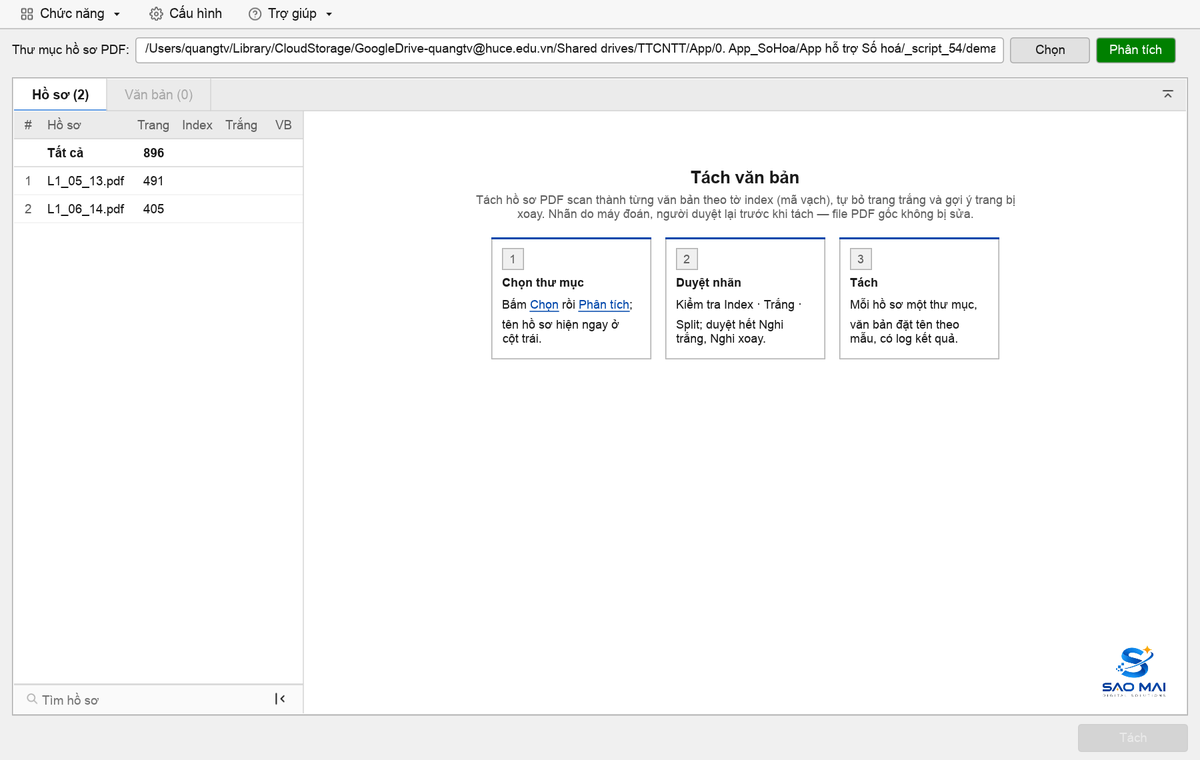
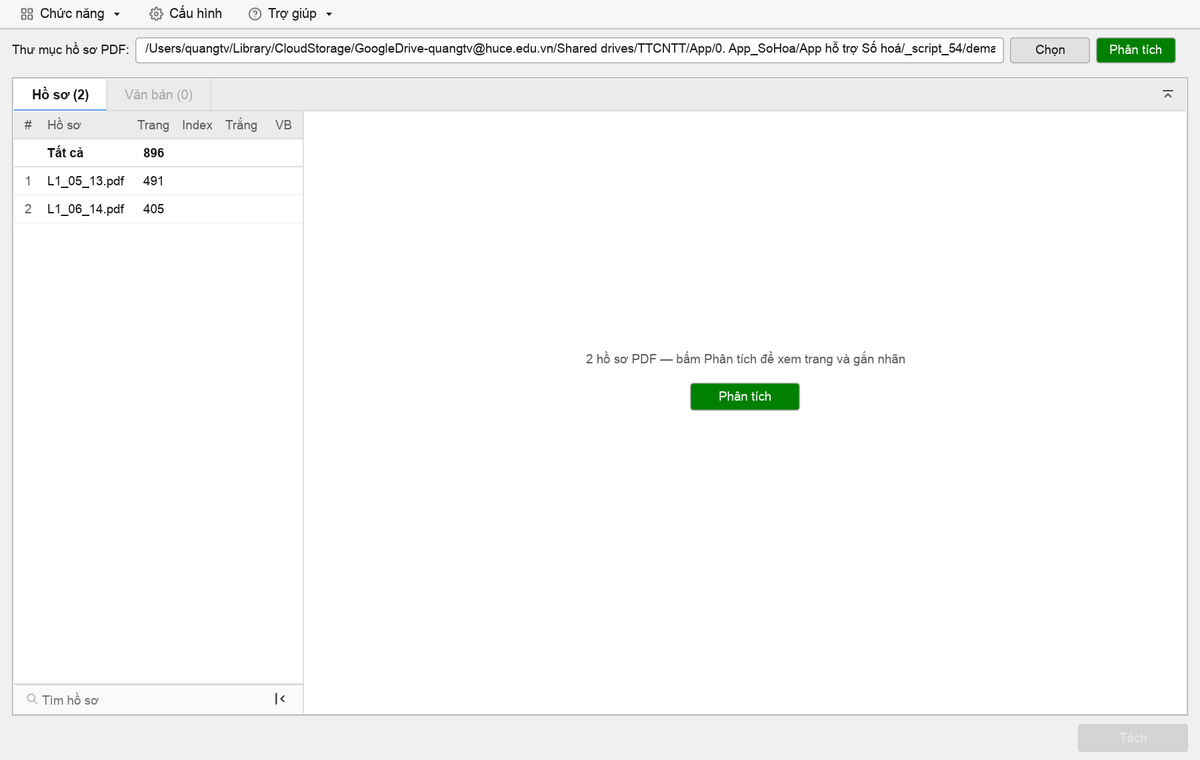
fix(tach): hiện ngay danh sách PDF sau khi chọn thư mục trên Windows, bỏ giới thiệu khi đã chọn; file cấu hình ẩn .dema4_saomai.cfg

Changed region(s): [[0.4008, 0.2118, 0.8325, 0.5447], [0.925, 0.8474, 0.9867, 0.9079], [0.8017, 0.4539, 0.8325, 0.4842]]

diff --git a/dema4_rs/src/cau_hinh.rs b/dema4_rs/src/cau_hinh.rs
@@ -1,4 +1,4 @@
-//! Cấu hình người dùng `sm-dema4.cfg` (dạng `khoá=giá trị`, mỗi dòng 1 khoá): hệ số quy A4, ranh giới khổ,
+//! Cấu hình người dùng `.dema4_saomai.cfg` (file ẩn; dạng `khoá=giá trị`, mỗi dòng 1 khoá): hệ số quy A4, ranh giới khổ,
 //! tuỳ chọn Tách PDF và trạng thái giao diện.
 //!
 //! Đặt cạnh file chạy; thư mục đó không ghi được → thư mục người dùng (`%APPDATA%\sm-dema4\`,
@@ -8,7 +8,10 @@ use crate::dem_pdf::HE_SO_MAC_DINH;
 use crate::tach_vb::tach::MAU_TEN_MAC_DINH;
 use std::path::{Path, PathBuf};
 
-pub const TEN_FILE: &str = "sm-dema4.cfg";
+/// Cùng tên ứng dụng, ẩn: dấu chấm đầu (macOS / Linux) + thuộc tính Hidden khi ghi (Windows).
+pub const TEN_FILE: &str = ".dema4_saomai.cfg";
+/// Tên cũ (≤ v1.0.0 bản đầu): vẫn đọc nếu chưa có file mới; lần ghi sau chuyển sang tên mới và xoá file cũ.
+const TEN_FILE_CU: &str = "sm-dema4.cfg";
 /// Ranh giới khổ mặc định (mm, cạnh dài): điểm giữa 2 khổ liền kề A0|A1 … A6|A7.
 pub const RANH_GIOI_MAC_DINH: [f64; 7] = [1015.0, 717.5, 507.0, 358.5, 253.5, 179.0, 126.5];
 /// Cạnh dài chuẩn (mm) A0 … A7.
@@ -301,16 +304,19 @@ impl CauHinh {
     }
 }
 
-/// Chỗ đặt file theo thứ tự ưu tiên: cạnh file chạy, rồi thư mục người dùng.
+/// Thư mục đặt file theo thứ tự ưu tiên: cạnh file chạy, rồi thư mục người dùng.
+fn thu_muc_dat_file() -> Vec<PathBuf> {
+    std::env::current_exe().ok().and_then(|e| e.parent().map(Path::to_path_buf)).into_iter().chain(thu_muc_nguoi_dung()).collect()
+}
+
+/// Chỗ đặt file (tên mới) theo thứ tự ưu tiên.
 pub fn cho_dat_file() -> Vec<PathBuf> {
-    let mut ds = Vec::new();
-    if let Some(p) = std::env::current_exe().ok().and_then(|e| e.parent().map(|d| d.join(TEN_FILE))) {
-        ds.push(p);
-    }
-    if let Some(d) = thu_muc_nguoi_dung() {
-        ds.push(d.join(TEN_FILE));
-    }
-    ds
+    thu_muc_dat_file().into_iter().map(|d| d.join(TEN_FILE)).collect()
+}
+
+/// Chỗ đọc: tên mới trước, rồi tên cũ.
+fn cho_doc(thu_muc: &[PathBuf]) -> Vec<PathBuf> {
+    thu_muc.iter().map(|d| d.join(TEN_FILE)).chain(thu_muc.iter().map(|d| d.join(TEN_FILE_CU))).collect()
 }
 
 pub(crate) fn thu_muc_nguoi_dung() -> Option<PathBuf> {
@@ -330,7 +336,7 @@ pub fn doc_tu(cho: &[PathBuf]) -> CauHinh {
 }
 
 pub fn doc() -> CauHinh {
-    doc_tu(&cho_dat_file())
+    doc_tu(&cho_doc(&thu_muc_dat_file()))
 }
 
 fn ghi_file(p: &Path, noi_dung: &str) -> std::io::Result<()> {
@@ -339,10 +345,30 @@ fn ghi_file(p: &Path, noi_dung: &str) -> std::io::Result<()> {
     }
     let tam = p.with_extension("cfg.tmp");
     std::fs::write(&tam, noi_dung)?;
+    an_hien(p, false); // Windows không cho thay file đang ẩn → bỏ ẩn bản cũ trước khi đổi tên đè
     std::fs::rename(&tam, p).inspect_err(|_| {
         let _ = std::fs::remove_file(&tam);
-    })
+    })?;
+    an_hien(p, true);
+    Ok(())
 }
+
+/// Bật / tắt thuộc tính Hidden (chỉ Windows; macOS / Linux ẩn nhờ dấu chấm đầu tên). Lỗi bỏ qua.
+#[cfg(windows)]
+fn an_hien(p: &Path, an: bool) {
+    use std::os::windows::ffi::OsStrExt;
+    use windows_sys::Win32::Storage::FileSystem::{GetFileAttributesW, SetFileAttributesW, FILE_ATTRIBUTE_HIDDEN, INVALID_FILE_ATTRIBUTES};
+    let ten: Vec<u16> = p.as_os_str().encode_wide().chain(std::iter::once(0)).collect();
+    unsafe {
+        let tt = GetFileAttributesW(ten.as_ptr());
+        if tt != INVALID_FILE_ATTRIBUTES {
+            SetFileAttributesW(ten.as_ptr(), if an { tt | FILE_ATTRIBUTE_HIDDEN } else { tt & !FILE_ATTRIBUTE_HIDDEN });
+        }
+    }
+}
+
+#[cfg(not(windows))]
+fn an_hien(_p: &Path, _an: bool) {}
 
 /// Ghi vào chỗ đầu tiên ghi được; trả đường dẫn đã ghi. Ghi được chỗ sau thì xoá bản cũ ở chỗ trước
 /// (nếu xoá được) để lần đọc sau không lấy nhầm bản cũ.
@@ -364,7 +390,16 @@ pub fn ghi_vao(c: &CauHinh, cho: &[PathBuf]) -> std::io::Result<PathBuf> {
 }
 
 pub fn ghi(c: &CauHinh) -> std::io::Result<PathBuf> {
-    ghi_vao(c, &cho_dat_file())
+    ghi_trong(c, &thu_muc_dat_file())
+}
+
+/// Ghi tên mới; ghi được thì xoá file tên cũ ở mọi chỗ (lần đọc sau không lấy nhầm bản cũ).
+fn ghi_trong(c: &CauHinh, thu_muc: &[PathBuf]) -> std::io::Result<PathBuf> {
+    let p = ghi_vao(c, &thu_muc.iter().map(|d| d.join(TEN_FILE)).collect::<Vec<_>>())?;
+    for d in thu_muc {
+        let _ = std::fs::remove_file(d.join(TEN_FILE_CU));
+    }
+    Ok(p)
 }
 
 #[cfg(test)]
@@ -468,6 +503,25 @@ mod tests {
         ghi_vao(&CauHinh::default(), &cho2).unwrap();
         assert_eq!(doc_tu(&cho2), CauHinh::default());
         assert!(!d.join("canh_exe.cfg.tmp").exists());
+        let _ = std::fs::remove_dir_all(&d);
+    }
+
+    #[test]
+    fn file_an_ten_ung_dung_va_chuyen_tu_ten_cu() {
+        assert!(TEN_FILE.starts_with('.') && TEN_FILE.contains("dema4_saomai"), "ẩn trên macOS / Linux, cùng tên ứng dụng");
+        let d = tam("ten_moi");
+        let (exe, nd) = (d.join("canh_exe"), d.join("nguoi_dung"));
+        std::fs::create_dir_all(&exe).unwrap();
+        let cu = CauHinh { rong_cot_trai: 321.0, ..Default::default() };
+        std::fs::write(exe.join(TEN_FILE_CU), cu.noi_dung()).unwrap();
+        let thu_muc = vec![exe.clone(), nd];
+        assert_eq!(doc_tu(&cho_doc(&thu_muc)), cu, "chưa có file mới → đọc file tên cũ");
+        let moi = CauHinh { rong_cot_trai: 222.0, ..cu.clone() };
+        assert_eq!(ghi_trong(&moi, &thu_muc).unwrap(), exe.join(TEN_FILE));
+        assert!(!exe.join(TEN_FILE_CU).exists(), "ghi xong xoá file tên cũ");
+        assert_eq!(doc_tu(&cho_doc(&thu_muc)), moi);
+        ghi_trong(&cu, &thu_muc).unwrap(); // ghi đè file đã có (Windows: file đang ẩn)
+        assert_eq!(doc_tu(&cho_doc(&thu_muc)), cu);
         let _ = std::fs::remove_dir_all(&d);
     }
 

diff --git a/dema4_rs/src/gui_tach.rs b/dema4_rs/src/gui_tach.rs
@@ -174,7 +174,7 @@ pub struct ManTach {
     tong_tt: Option<(u64, crate::dem_pdf::QuyTac, van_ban::TongVanBan)>,
     /// Ảnh cần render trong khung này (gom từ lưới, xem trang, hộp phóng to rồi gửi 1 lần).
     yeu_cau_anh: Vec<YeuCau>,
-    /// Cấu hình đổi trong màn (độ rộng cột, cỡ ảnh…) → app ghi `sm-dema4.cfg`.
+    /// Cấu hình đổi trong màn (độ rộng cột, cỡ ảnh…) → app ghi `.dema4_saomai.cfg`.
     pub cfg_doi: bool,
     /// Lúc bấm Phân tích (tính tổng thời gian cả bước đọc thư mục).
     bat_dau_pt: Option<Instant>,
@@ -286,15 +286,18 @@ impl Default for ManTach {
 
 /// Hộp chọn thư mục: Windows chạy ở luồng riêng để cửa sổ app không đứng hình lúc hộp thoại mở / duyệt ổ mạng;
 /// macOS bắt buộc mở trên luồng chính (rfd) nên mở trực tiếp.
-fn chon_thu_muc_nen(hien_tai: &str) -> Receiver<Option<PathBuf>> {
+fn chon_thu_muc_nen(hien_tai: &str, ctx: &egui::Context) -> Receiver<Option<PathBuf>> {
     let (gui, nhan) = mpsc::channel();
     let dau = PathBuf::from(hien_tai.trim());
+    let ctx = ctx.clone();
     let mo = move || {
         let mut hop = rfd::FileDialog::new();
         if dau.is_dir() {
             hop = hop.set_directory(&dau);
         }
         let _ = gui.send(hop.pick_folder());
+        // Hộp chọn chạy ở luồng riêng (Windows): đánh thức giao diện để nhận thư mục ngay, không chờ người dùng di chuột
+        ctx.request_repaint();
     };
     if cfg!(target_os = "windows") {
         std::thread::spawn(mo);
@@ -1027,6 +1030,10 @@ impl ManTach {
         if self.dang_chay() {
             ctx.request_repaint_after(Duration::from_millis(100));
         }
+        // Đang chờ hộp chọn thư mục / đọc danh sách PDF + số trang ở luồng nền: tự vẽ lại để kết quả hiện ngay
+        if self.chon_tm.is_some() || self.xem_truoc.nhan.is_some() {
+            ctx.request_repaint_after(Duration::from_millis(50));
+        }
         if self.bao.as_ref().is_some_and(|(_, t)| t.elapsed() > Duration::from_secs(3)) {
             self.bao = None;
         }
@@ -1091,7 +1098,7 @@ impl ManTach {
             // Gõ xong (rời ô / Enter) mới quét, tránh quét cả ổ khi đang gõ dở "G:\"
             self.dang_go_tm = r.has_focus();
             if ui.add_enabled(!khoa && self.chon_tm.is_none(), nut("Chọn")).clicked() {
-                self.chon_tm = Some(chon_thu_muc_nen(&self.thu_muc));
+                self.chon_tm = Some(chon_thu_muc_nen(&self.thu_muc, ui.ctx()));
             }
             let (chu, mau) = if dang_chay {
                 ("Dừng", DO)
@@ -1599,12 +1606,39 @@ impl ManTach {
         });
     }
 
+    /// Khung phải khi đã chọn thư mục nhưng chưa Phân tích: số hồ sơ đọc được + nút Phân tích.
+    fn goi_y_phan_tich(&mut self, ui: &mut egui::Ui, cfg: &CauHinh) {
+        let x = &self.xem_truoc;
+        let (chu, co_nut) = if x.nhan.is_some() && !x.da_duyet {
+            (format!("Đang đọc danh sách PDF… {} hồ sơ", so_nguyen(x.pdf.len())), false)
+        } else if x.pdf.is_empty() {
+            ("Thư mục không có file PDF nào".to_string(), false)
+        } else {
+            (format!("{} hồ sơ PDF — bấm Phân tích để xem trang và gắn nhãn", so_nguyen(x.pdf.len())), true)
+        };
+        ui.add_space((ui.available_height() * 0.4).max(24.0));
+        ui.vertical_centered(|ui| {
+            ui.label(RichText::new(chu).color(CHU_PHU));
+            if co_nut {
+                ui.add_space(10.0);
+                if ui.add(nut_mau("Phân tích", XANH_LA).min_size(egui::vec2(110.0, 28.0))).clicked() {
+                    self.bam_phan_tich(&cfg.cau_hinh_phan_tich());
+                }
+            }
+        });
+    }
+
     fn luoi(&mut self, ui: &mut egui::Ui, cfg: &CauHinh, viec: &mut Vec<Viec>) {
         let Some(b) = &self.bang else {
             // Chưa phân tích: giới thiệu chức năng; link Chọn / Phân tích làm đúng việc của nút
             if self.chay.is_none() {
+                // Đã chọn thư mục: bỏ màn giới thiệu, nhắc bước tiếp (danh sách PDF hiện ở cột trái)
+                if !self.xem_truoc.thu_muc.is_empty() {
+                    self.goi_y_phan_tich(ui, cfg);
+                    return;
+                }
                 match crate::gioi_thieu::ve(ui, &crate::gioi_thieu::TACH) {
-                    Some(crate::gioi_thieu::Bam::Chon) if self.chon_tm.is_none() => self.chon_tm = Some(chon_thu_muc_nen(&self.thu_muc)),
+                    Some(crate::gioi_thieu::Bam::Chon) if self.chon_tm.is_none() => self.chon_tm = Some(chon_thu_muc_nen(&self.thu_muc, ui.ctx())),
                     Some(crate::gioi_thieu::Bam::PhanTich) => self.bam_phan_tich(&cfg.cau_hinh_phan_tich()),
                     _ => {}
                 }

diff --git a/dema4_rs/src/gui.rs b/dema4_rs/src/gui.rs
@@ -167,7 +167,7 @@ impl UngDungChinh {
         }
     }
 
-    /// Áp Cấu hình mới cho cả 2 màn (`ghi` = ghi `sm-dema4.cfg`).
+    /// Áp Cấu hình mới cho cả 2 màn (`ghi` = ghi `.dema4_saomai.cfg`).
     fn ap_cau_hinh(&mut self, moi: crate::cau_hinh::CauHinh, ghi: bool) {
         self.tach.ap_cau_hinh(&self.cfg, &moi);
         self.dem.quy_tac = moi.quy_tac();
@@ -1521,6 +1521,31 @@ mod tests {
             h.run();
         }
         assert!(h.state().dem.dang_dem.is_some() || h.state().dem.thong_bao.is_some(), "được cấp lượt → đếm chạy luôn");
+        let _ = std::fs::remove_dir_all(&goc);
+    }
+
+    /// Màn Tách: chưa chọn thư mục → giới thiệu; chọn thư mục → bỏ giới thiệu, hiện số hồ sơ + nút Phân tích.
+    #[test]
+    fn chon_thu_muc_tach_bo_gioi_thieu() {
+        use egui_kittest::kittest::Queryable;
+        let goc = std::env::temp_dir().join(format!("dema4_bo_gioi_thieu_{}", std::process::id()));
+        let _ = std::fs::remove_dir_all(&goc);
+        std::fs::create_dir_all(goc.join("con")).unwrap();
+        for f in ["a.pdf", "b.pdf", "con/c.pdf"] {
+            std::fs::write(goc.join(f), b"%PDF-1.4").unwrap();
+        }
+        let mut h = harness_chinh(Man::Tach);
+        h.run();
+        h.get_by_label("Duyệt nhãn");
+        h.state_mut().tach.thu_muc = goc.display().to_string();
+        let bat_dau = Instant::now();
+        while h.query_by_label("3 hồ sơ PDF — bấm Phân tích để xem trang và gắn nhãn").is_none() {
+            assert!(bat_dau.elapsed() < Duration::from_secs(5), "không hiện số hồ sơ");
+            std::thread::sleep(Duration::from_millis(20));
+            h.run_steps(2); // đang đọc danh sách: app tự vẽ lại liên tục
+        }
+        assert!(h.query_by_label("Duyệt nhãn").is_none(), "đã chọn thư mục → bỏ màn giới thiệu");
+        assert_eq!(h.get_all_by_label("Phân tích").count(), 2, "nút Phân tích ở thanh thư mục + ở khung gợi ý");
         let _ = std::fs::remove_dir_all(&goc);
     }
 

diff --git a/dema4_rs/src/tro_giup.rs b/dema4_rs/src/tro_giup.rs
@@ -196,7 +196,7 @@ const HD_DEM: &[Khoi] = &[
         ("Hệ số quy A4", "A0–A7, mặc định 16 · 8 · 4 · 2 · 1 · 0,5 · 0,25 · 0,125."),
         ("Lớn hơn A0", "Cạnh dài > 1399 mm: ~theo diện tích ÷ A4~ (vd 1500×900 mm ≈ 21,64) hoặc ~hệ số cố định~ ≥ hệ số A0."),
         ("Ranh giới khổ", "Kéo vạch trên thước (mặc định ở giữa 2 khổ, vd A3|A4 = 358,5 mm). Gõ *Thử cạnh dài* để xem trang thuộc khổ nào."),
-        ("Lưu · Mặc định", "Áp cho lần Đếm sau (`sm-dema4.cfg` cạnh file chạy). Ranh giới khác mặc định được ghi trong `_dem.txt`."),
+        ("Lưu · Mặc định", "Áp cho lần Đếm sau (file ẩn `.dema4_saomai.cfg` cạnh file chạy). Ranh giới khác mặc định được ghi trong `_dem.txt`."),
     ]),
     Khoi::Muc("Lượt dùng"),
     LUOT_DUNG,
